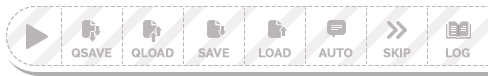
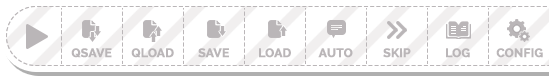
Add config button to system menu

diff --git a/src/winmain.c b/src/winmain.c
@@ -972,6 +972,7 @@ static int ConvertKeyCode(int nVK)
 /* フルスクリーンモードの切り替えを行う */
 static void ToggleFullScreen(void)
 {
+	LONG style;
 	int cx, cy;
 
 #ifdef USE_DEBUGGER
@@ -1007,11 +1008,15 @@ static void ToggleFullScreen(void)
 
 		nOffsetX = 0;
 		nOffsetY = 0;
-		SetWindowLong(hWndMain, GWL_STYLE, (LONG)(WS_CAPTION |
-												  WS_SYSMENU |
-												  WS_MINIMIZEBOX |
-												  WS_MAXIMIZEBOX |
-												  WS_OVERLAPPED));
+
+		if (!conf_window_fullscreen_disable) {
+			style = WS_CAPTION | WS_SYSMENU | WS_MINIMIZEBOX | WS_MAXIMIZEBOX |
+				    WS_OVERLAPPED;
+		} else {
+			style = WS_CAPTION | WS_SYSMENU | WS_MINIMIZEBOX | WS_OVERLAPPED;
+		}
+
+		SetWindowLong(hWndMain, GWL_STYLE, style);
 		SetWindowLong(hWndMain, GWL_EXSTYLE, 0);
 		SetWindowPos(hWndMain, NULL, 0, 0, 0, 0, SWP_NOMOVE | SWP_NOSIZE |
 					 SWP_NOZORDER | SWP_FRAMECHANGED);
@@ -1110,6 +1115,9 @@ static void OnPaint(void)
 			   SRCCOPY);
 	}
 	EndPaint(hWndMain, &ps);
+
+	if (bD3D)
+		D3DRedraw();
 }
 
 /*
@@ -1484,6 +1492,19 @@ bool overwrite_dialog(void)
 {
 	if (MessageBox(hWndMain,
 				   conv_utf8_to_native(conf_ui_msg_overwrite),
+				   mbszTitle,
+				   MB_OKCANCEL) == IDOK)
+		return true;
+	return false;
+}
+
+/*
+ * 初期設定ダイアログを表示する
+ */
+bool default_dialog(void)
+{
+	if (MessageBox(hWndMain,
+				   conv_utf8_to_native(conf_ui_msg_default),
 				   mbszTitle,
 				   MB_OKCANCEL) == IDOK)
 		return true;

diff --git a/src/gui.c b/src/gui.c
@@ -870,10 +870,12 @@ static void process_button_click(int index)
 	/* ボタンのタイプごとにクリックを処理する */
 	switch (b->type) {
 	case TYPE_FULLSCREEN:
+		play_se(b->clickse, false);
 		enter_full_screen_mode();
 		update_runtime_props(false);
 		break;
 	case TYPE_WINDOW:
+		play_se(b->clickse, false);
 		leave_full_screen_mode();
 		update_runtime_props(false);
 		break;
@@ -888,11 +890,14 @@ static void process_button_click(int index)
 		reset_preview_all_buttons();
 		break;
 	case TYPE_DEFAULT:
-		set_text_speed(0.5f);
-		set_auto_speed(0.5f);
-		apply_initial_values();
-		update_runtime_props(true);
-		reset_preview_all_buttons();
+		if (default_dialog()) {
+			play_se(b->clickse, false);
+			set_text_speed(0.5f);
+			set_auto_speed(0.5f);
+			apply_initial_values();
+			update_runtime_props(true);
+			reset_preview_all_buttons();
+		}
 		break;
 	case TYPE_TITLE:
 		if (title_dialog())
@@ -970,6 +975,11 @@ static void process_button_draw_activatable(int index)
 	b = &button[index];
 	assert(b->type == TYPE_FONT || b->type == TYPE_FULLSCREEN ||
 	       b->type == TYPE_WINDOW);
+
+	/* フルスクリーンにできない場合 */
+	if (conf_window_fullscreen_disable)
+		if (b->type == TYPE_FULLSCREEN || b->type == TYPE_WINDOW)
+			return;
 
 	/* ポイントされているとき、hover画像を描画する */
 	if (b->rt.is_pointed) {

diff --git a/src/nsmain.m b/src/nsmain.m
@@ -929,6 +929,24 @@ bool delete_dialog(void)
 }
 
 //
+// 初期設定ダイアログを表示する
+//
+bool default_dialog(void)
+{
+    @autoreleasepool {
+        NSAlert *alert = [[NSAlert alloc] init];
+        [alert addButtonWithTitle:!conf_i18n ? @"はい" : @"Yes"];
+        [alert addButtonWithTitle:!conf_i18n ? @"いいえ" : @"No"];
+        [alert setMessageText:
+                   [[NSString alloc] initWithUTF8String:conf_ui_msg_default]];
+        [alert setAlertStyle:NSWarningAlertStyle];
+        if ([alert runModal] == NSAlertFirstButtonReturn)
+            return true;
+        return false;
+    }
+}
+
+//
 // ビデオを再生する
 //
 bool play_video(const char *fname, bool is_skippable)

diff --git a/src/conf.c b/src/conf.c
@@ -332,6 +332,7 @@ char *conf_ui_msg_quit;
 char *conf_ui_msg_title;
 char *conf_ui_msg_delete;
 char *conf_ui_msg_overwrite;
+char *conf_ui_msg_default;
 
 /*
  * その他の設定
@@ -1079,6 +1080,7 @@ struct rule {
 	{"ui.msg.title", 's', &conf_ui_msg_title, false, false},
 	{"ui.msg.delete", 's', &conf_ui_msg_delete, false, false},
 	{"ui.msg.overwrite", 's', &conf_ui_msg_overwrite, false, false},
+	{"ui.msg.default", 's', &conf_ui_msg_default, false, false},
 	{"voice.stop.off", 'i', &conf_voice_stop_off, true, false},
 	{"window.fullscreen.disable", 'i', &conf_window_fullscreen_disable, true, false},
 	{"window.title.separator", 's', &conf_window_title_separator, true, false},

diff --git a/src/d3drender.h b/src/d3drender.h
@@ -27,6 +27,7 @@ BOOL D3DUnlockTexture(int width, int height, pixel_t *pixels,
 VOID D3DDestroyTexture(void *texture);
 VOID D3DStartFrame(void);
 VOID D3DEndFrame(void);
+VOID D3DRedraw(void);
 VOID D3DRenderImage(int dst_left, int dst_top,
 					struct image * RESTRICT src_image, int width, int height,
 					int src_left, int src_top, int alpha, int bt);

diff --git a/src/platform.h b/src/platform.h
@@ -94,6 +94,9 @@ bool delete_dialog(void);
 /* 上書きダイアログを表示する */
 bool overwrite_dialog(void);
 
+/* 初期設定ダイアログを表示する */
+bool default_dialog(void);
+
 /* ビデオを再生する */
 bool play_video(const char *fname, bool is_skippable);
 

diff --git a/src/ndkmain.c b/src/ndkmain.c
@@ -445,6 +445,15 @@ bool delete_dialog(void)
 }
 
 /*
+ * 初期設定ダイアログを表示する
+ */
+bool default_dialog(void)
+{
+	/* stub */
+	return true;
+}
+
+/*
  * サウンドが再生終了したか調べる
  */
 bool is_sound_finished(int stream)

diff --git a/src/x11main.c b/src/x11main.c
@@ -1291,6 +1291,15 @@ bool delete_dialog(void)
 }
 
 /*
+ * 初期設定ダイアログを表示する
+ */
+bool default_dialog(void)
+{
+	/* stub */
+	return true;
+}
+
+/*
  * ビデオを再生する
  */
 bool play_video(const char *fname, bool is_skippable)

diff --git a/src/emmain.c b/src/emmain.c
@@ -602,6 +602,15 @@ bool delete_dialog(void)
 }
 
 /*
+ * 初期設定ダイアログを表示する
+ */
+bool default_dialog(void)
+{
+	/* stub */
+	return true;
+}
+
+/*
  * ビデオを再生する
  */
 bool play_video(const char *fname, bool is_skippable)

diff --git a/src/d3drender.cc b/src/d3drender.cc
@@ -383,6 +383,14 @@ VOID D3DEndFrame(void)
 }
 
 //
+// 再描画を行う
+//
+VOID D3DRedraw(void)
+{
+	pD3DDevice->Present(NULL, NULL, NULL, NULL);
+}
+
+//
 // イメージをレンダリングする
 // (render_image()のDirect3D版実装)
 //

diff --git a/src/iosmain.m b/src/iosmain.m
@@ -622,6 +622,14 @@ bool delete_dialog(void)
 }
 
 //
+// 初期設定ダイアログを表示する
+//
+bool default_dialog(void)
+{
+	return true;
+}
+
+//
 // ビデオを再生する
 //
 bool play_video(const char *fname, bool is_skippable)

diff --git a/src/conf.h b/src/conf.h
@@ -346,6 +346,7 @@ extern char *conf_ui_msg_quit;
 extern char *conf_ui_msg_title;
 extern char *conf_ui_msg_delete;
 extern char *conf_ui_msg_overwrite;
+extern char *conf_ui_msg_default;
 
 /*
  * その他の設定
